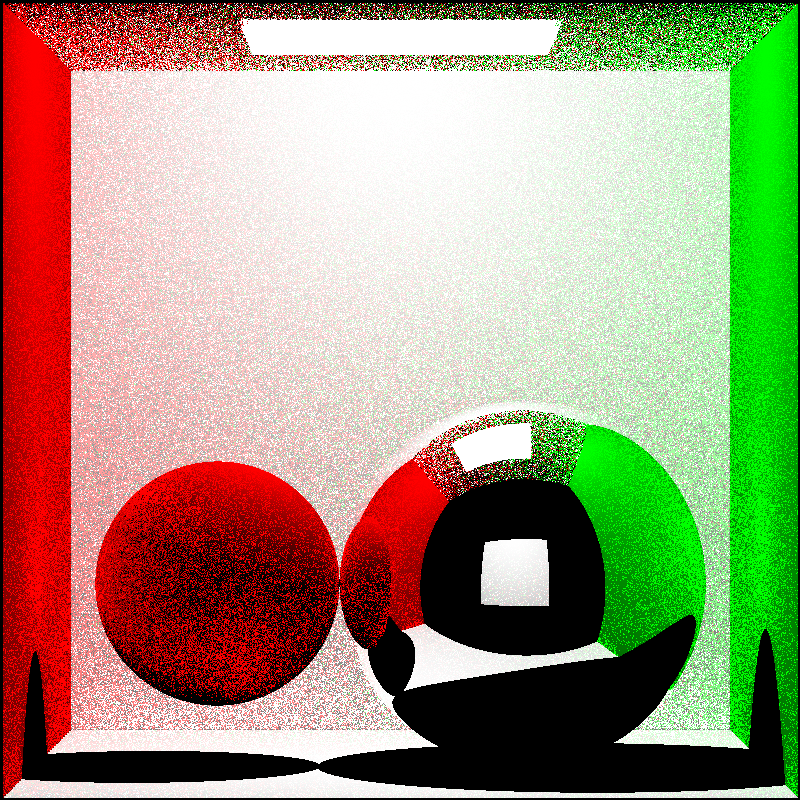
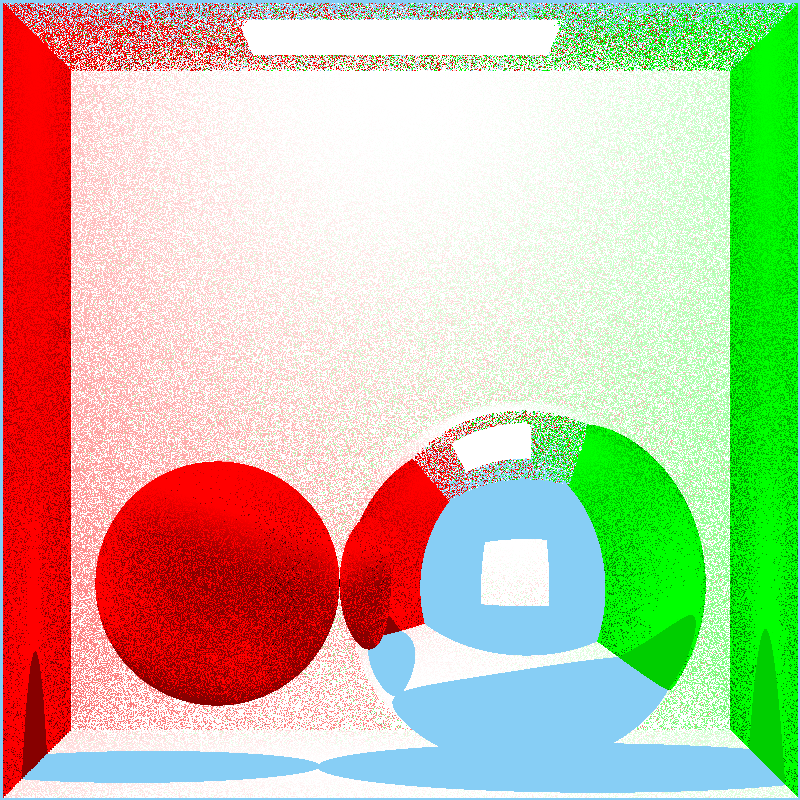
made the code parallelizable

diff --git a/main.cpp b/main.cpp
@@ -457,7 +457,7 @@ bool shadow_calc(vector<Light> lights, vector<Sphere> spheres, vector<Triangle> 
 }
 
 Vector return_color(vector<Sphere> spheres, vector<Light> lights, Ray ray, vector<Triangle> triangles, Object closest_object, bool in_shadow) {
-  Vector color = {0,0,0};
+  Vector color = {135, 206, 245};
   Vector reflective_color = {0,0,0};
  
   if (closest_object.is_object) {
@@ -614,10 +614,10 @@ int main() {
   };
  
   Vector camera_pos = {0,0,-3.8};
-  constexpr int ray_samples = 2;
+  constexpr int ray_samples = 1;
  
+#pragma omp parallel for collapse(3)
   for (int y = 0; y<HEIGHT; y++) {
-    std::cout << y << "/" << HEIGHT << std::endl;
     for (int x = 0; x<WIDTH; x++) {
       Vector final_color = {0,0,0};
       Vector viewport_coords = {canvas_to_viewport(x, viewport_w, WIDTH),-canvas_to_viewport(y, viewport_h, HEIGHT),d};
@@ -634,9 +634,11 @@ int main() {
         final_color.y += color.y;
         final_color.z += color.z;
       }
-      data[index++] = final_color.x / ray_samples;
-      data[index++] = final_color.y / ray_samples;
-      data[index++] = final_color.z / ray_samples;
+
+      int base = (y * WIDTH + x) * 3;  // <-- the magic line
+      data[base] = final_color.x / ray_samples;
+      data[base+1] = final_color.y / ray_samples;
+      data[base+2] = final_color.z / ray_samples;
     }
   }
  